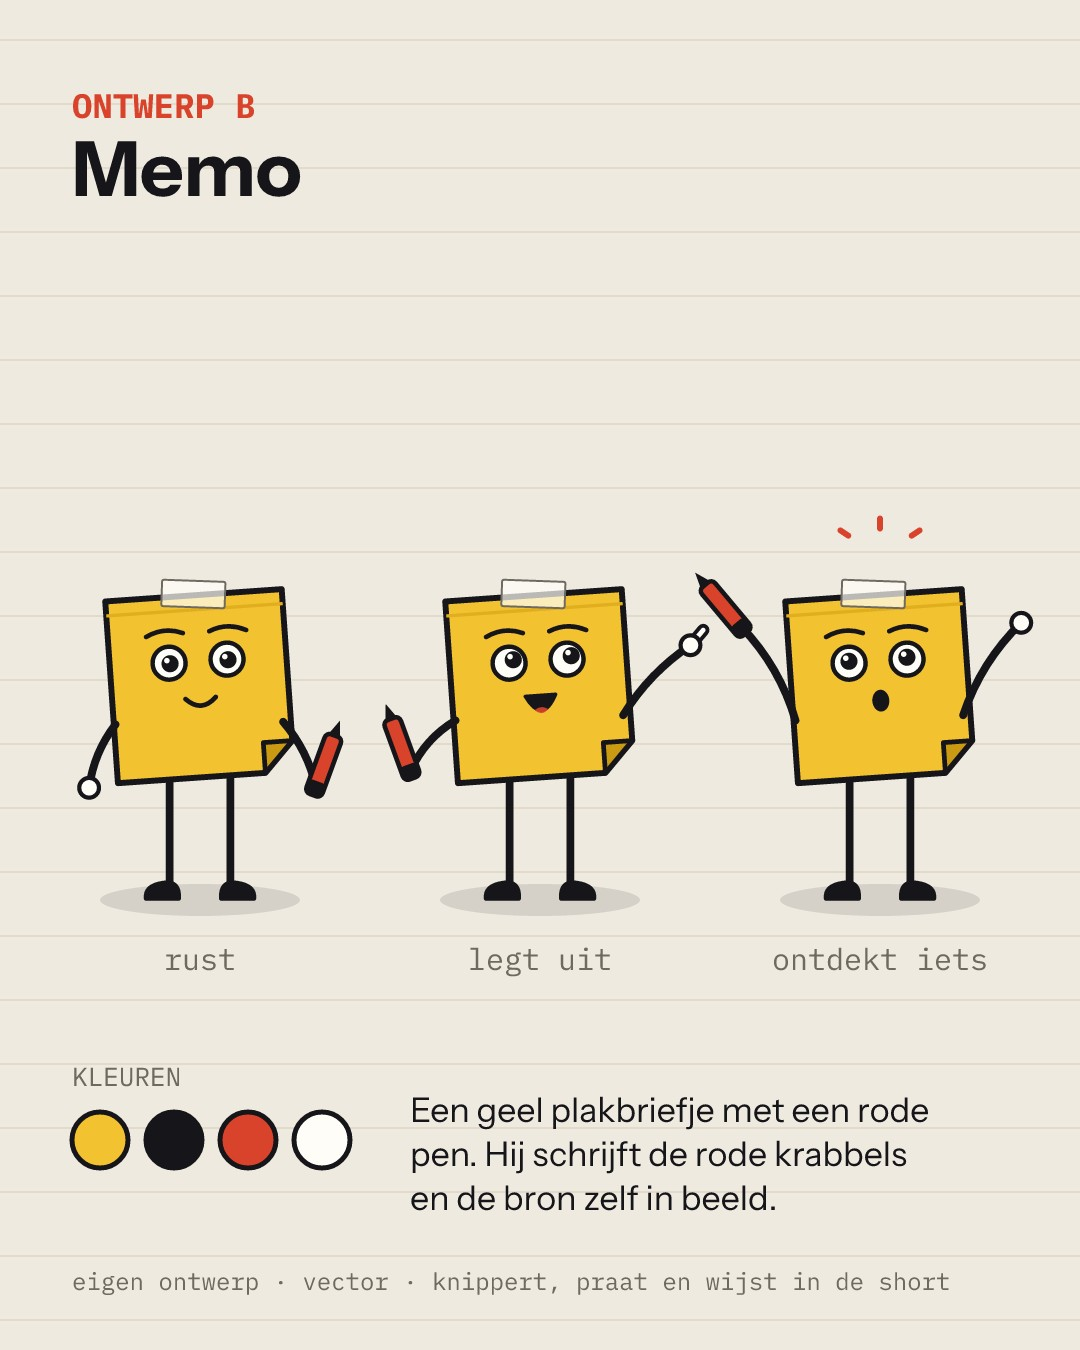
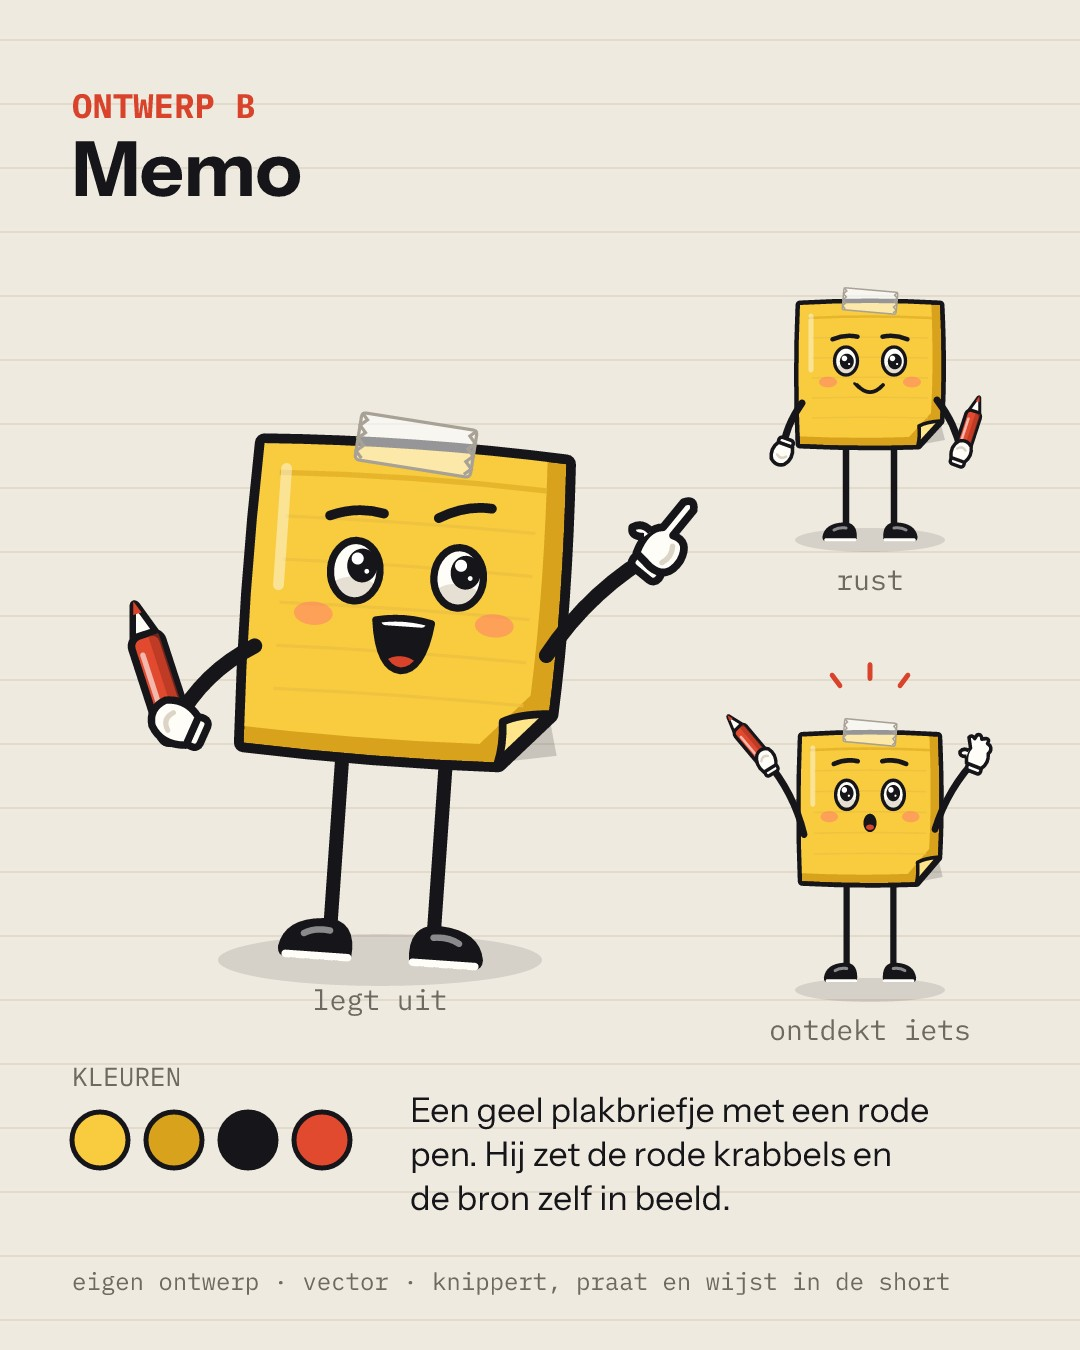
Figuren ronde 2: schaduw, glans, handschoentjes en expressievere gezichten
Andries, za 14 nov 2026 ±14:15, in de sessie: "betere figuren".

Changed region(s): [[0.0611, 0.2178, 0.9778, 0.7778], [0.3972, 0.84, 0.8556, 0.9022], [0.1222, 0.8089, 0.3361, 0.8711]]

diff --git a/docs/figuur/LEESMIJ.md b/docs/figuur/LEESMIJ.md
@@ -13,6 +13,8 @@
 - `ontwerpen-overzicht.jpg`: de drie bladen naast elkaar.
 - `ontwerpen-in-beeld.jpg`: elk ontwerp in een voorbeeldframe van een short. De kop is alleen een voorbeeld, geen gekeurd onderwerp.
 
+**Ronde 2** (Andries, za 14 nov ±14:15, in de sessie: "betere figuren"): elke vorm heeft nu een celschaduw en een glans, er zijn handschoentjes met vingers (een wijzende hand), de ogen hebben een schaduw en twee lichtpuntjes, de figuren hebben wenkbrauwen die met de houding meebewegen, een open mond met tanden en tong, en schoenen met een zool. Het lijf buigt mee: bij wijzen leunt de figuur, bij verbazing maakt hij een sprongetje. Daarnaast heeft elk ontwerp eigen details: A een loep met messing rand, B papierlijntjes, plakband en een omgekrulde hoek, C een getrapte staart met groenblauwe glans, witte schoudervlekken, een tas met gesp en een snavel die opengaat. Op het blad staat de figuur nu groot in de houding "legt uit".
+
 **Hoe gemaakt:**
 - Eigen werk, als vector in `gereedschap/figuur.cjs`; de bladen maak je met `node gereedschap/figuur-blad.cjs`.
 - Geen bestaand personage, geen AI-beeld en geen betaald hulpmiddel. Het potje is niet aangesproken.

diff --git a/docs/oplevering-manon.md b/docs/oplevering-manon.md
@@ -1,3 +1,4 @@
+KLAAR: ronde 2 figuren (op "betere figuren"): A Vraagteken, B Memo en C Ekster opnieuw getekend met schaduw, glans, handschoentjes en expressievere gezichten; docs/figuur/; wacht op keuze Andries · za 14 nov 14:15
 KLAAR: jesse-10 stap 1, drie ontwerpen vaste figuur kanaal 1 (A Vraagteken, B Memo, C Ekster) in docs/figuur/; wacht op keuze Andries · za 14 nov 14:00
 KLAAR: extra starttijden automaat Instagram op tak manon/cron-extra (8a74843), na "A: extra starttijden"; wacht op controle Eva (V-manon-cron) en go Andries (B30) · do 12 nov 23:50
 KLAAR: Instagram kanaal 1 nagekeken: YS04–YS06 geplaatst, maar 3–5,5 uur te laat (GitHub start de uurklok maar ±3× per dag); keuze A/B voor de automaat ligt bij Andries · do 12 nov 23:45
